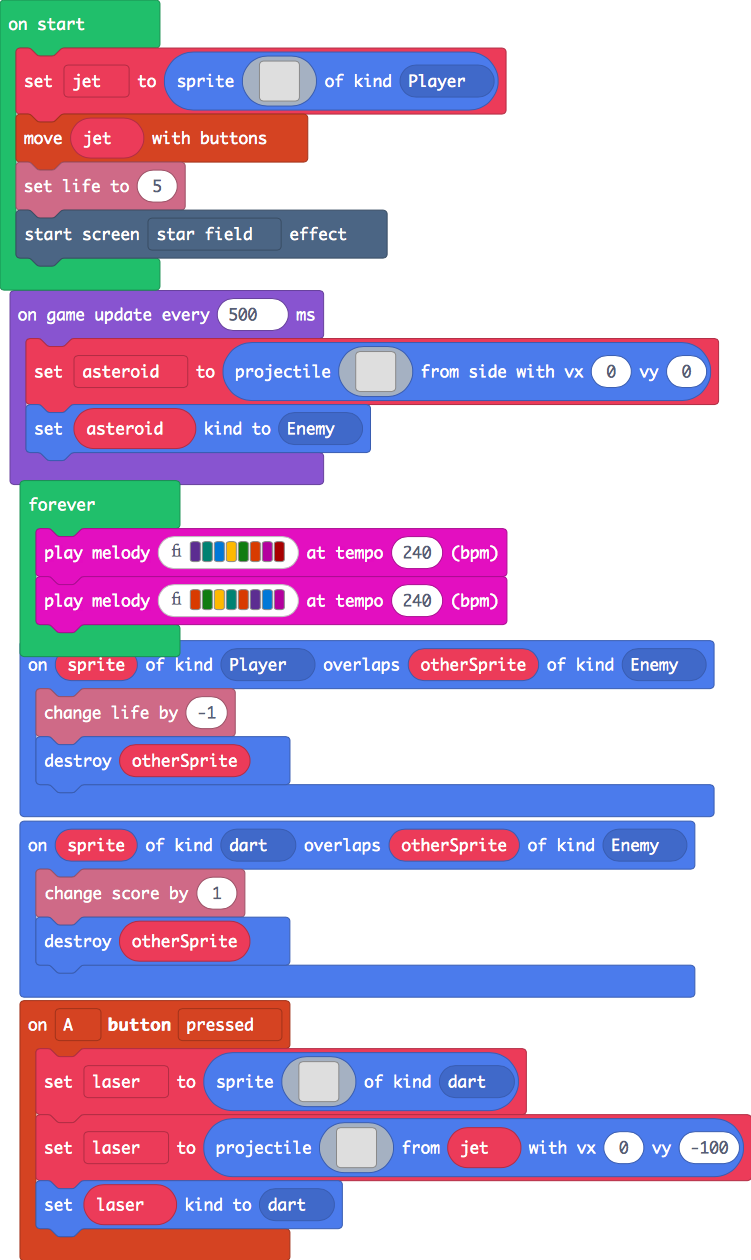
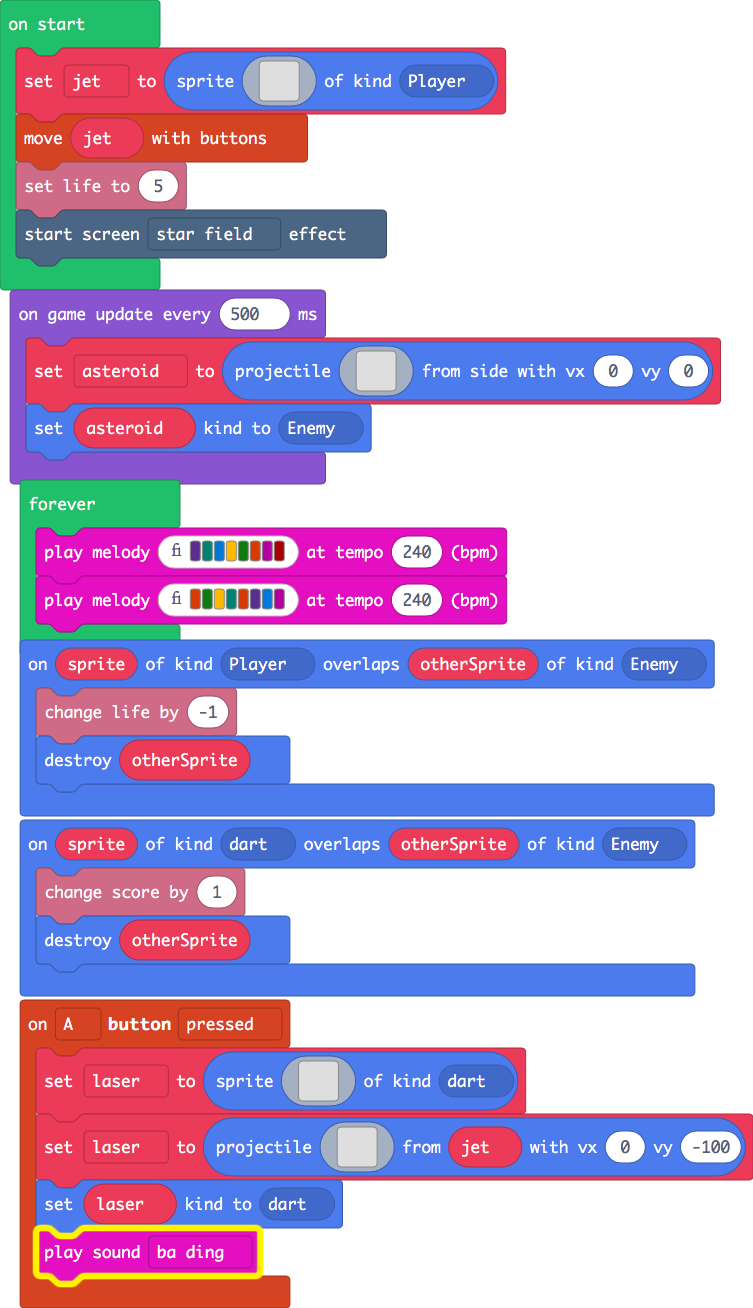
Update main.blocks, main.ts

diff --git a/main.ts b/main.ts
@@ -39,6 +39,7 @@ controller.A.onEvent(ControllerButtonEvent.Pressed, function () {
 . . . . . . . . . . . . . . . . 
 `, jet, 0, -100)
     laser.setKind(SpriteKind.dart)
+    music.baDing.play()
 })
 sprites.onOverlap(SpriteKind.Player, SpriteKind.Enemy, function (sprite, otherSprite) {
     info.changeLifeBy(-1)
